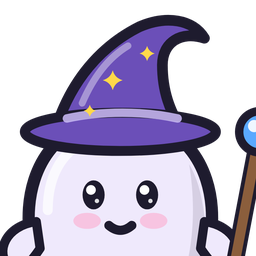
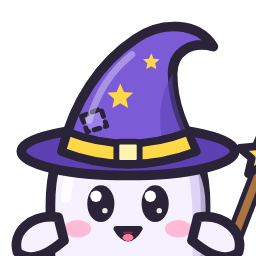
Kistenturm: Profilbilder aus den neuen Figuren neu gerendert
Gleiche Dateinamen und ids (mps_derby_kt_*), 256x256 transparent.

Claude-Session: https://claude.ai/code/session_01SoWN1j3hLtYjzvQRXXWkJB

diff --git a/avatars.js b/avatars.js
@@ -406,7 +406,7 @@
       ['f_b_b_a', 'f_b_b_a_avatar.png', 'Blütenschlange'],
       ['f_b_b_b', 'f_b_b_b_avatar.png', 'Baumsaurier'],
       ['f_b_c',   'f_b_c_avatar.png',   'Baumriese'],
-      // Kistenturm: Teamfiguren (figuren.js DDFiguren.LIST), Kopf aus dem SVG gerendert.
+      // Kistenturm: Teamfiguren (figuren.js DDFiguren.LIST), Kopf aus dem SVG gerendert (neue Figuren seit 10.11.2026).
       // Frei für angemeldete Mitglieder des Sieger-Teams (Migration 0255).
       ['kt_astro',   'kt_astro_avatar.png',   'Astro-Hase'],
       ['kt_lama',    'kt_lama_avatar.png',    'Bananalama'],

diff --git a/MPSkills/tools/DefinitionsDerby/CLAUDE.md b/MPSkills/tools/DefinitionsDerby/CLAUDE.md
@@ -71,7 +71,7 @@ Erste Lernform **„Zusammen im Netz“** (`storm`, `GAMES` mit `net: true`, nur
 - **Klasse holen**: Öffnet die Lehrkraft Kistenturm, schreibt sie `skill_room_state.data.storm = {live: true, t}` und teilt die Lernform (`games` += `storm`); jedes Tablet zeigt oben den Knopf **„Kistenturm! Mitmachen“** (`stBanner`, `.dd-stbanner`), solange sie drin ist (verlässt sie es, `live: false`).
 - **Server** (Tabellen `dd_storm_boards/teams/players/events`, alles am Raum mit on delete cascade): Lehrkraft `dd_storm_room_get/setup/start/stop/reset(p_code, …)`, Tablet `dd_storm_view(p_token, p_since)` und `dd_storm_answer(p_token, p_ok, p_since)` — jede Antwort liefert die ganze Ansicht zurück. Phasen `lobby → countdown (4 s) → running → ended`, lazy weitergeschaltet (`dd_storm_advance`, kein Cron). **Ob eine Antwort stimmt, prüft das Tablet** (insel.js, nachsichtig); der Server zählt höchstens eine richtige je 1,2 s und Gerät (`too_fast`). **Fair bei ungleichen Teams**: eine Antwort bringt `größtes Team / eigenes Team` Anteile (`progress`), Höhe = ganzer Teil. Für Animationen eine laufende Nummer `seq` und kurze Ereignisliste (`box` mit Name und Höhe, `start`, `win`, `time`, `stop`, `reset`; die letzten 200 bleiben); Geräte fragen mit `p_since` nur Neues. In der Lobby kennt das Tablet über `me.id` sein Vorschau-Team.
 - **Aufgaben**: dieselben fünf wie auf der Insel (`DDInsel.makeTask`), die Stufe kommt aus der **Höhe des eigenen Turms** (`stLevel` = ⌊Höhe/Ziel · 5⌋: Begriff wählen · Definition wählen · Bausteine · Begriff tippen · Lückentext) — wer hinten liegt, hat leichtere Aufgaben. Reihenfolge `DDInsel.roundCards`, Falsches kommt per `requeue` wieder. Richtig → „Eine Kiste für Team X“, nach 1 s die nächste; falsch → Lösung, „Weiter“ erst nach 1,6 s (`ST_LOCK_MS`, gegen Raten). **Schreibt keinen Lernstand** (wie Memory/Duell). Das Aufgabenblatt ist dasselbe wie auf der Insel (`paintTask` & Co. fragen `curTask()`; das Ergebnis geht über `taskResult` an `stResult` bzw. `islResult`), hier im Fluss statt als Fenster (`.dd-task--inline`, Kopf `stTaskHead`).
-- **Die sechs Figuren** (`figuren.js` + `figuren.css`; **neu gezeichnet am 10.11.2026**, Sönke: „die Opus-Figuren sind noch nicht richtig schön, Bewegungen nicht toll, kein Charakter“ → Entwurf mit Gegenüberstellung, dann eingebaut). Sie stehen komplett in `figuren.js` (Kasten 0…200, Boden y = 184, Umriss fest `#2b2438`, hell und dunkel gleich); der Baukasten von Knowledge Stack (`KSCreatures`, creatures.js/css) wird dafür **nicht mehr geladen** (`ladeFiguren` in `tool.js` holt nur figuren.css/js). Team = Nummer in `DDFiguren.LIST`, **nicht umsortieren** (auch die Profilbilder `mps_derby_kt_<key>` hängen daran). Schnittstelle unverändert: `DDFiguren.svg(team, action, px)` mit `idle` · `lift` · `cheer` · `sad` (`wave` und alles Unbekannte = idle), `LIST[{key, soft, name, col, say}]`, `count`. Zustand = Klasse am `<svg>` (`kf kf--<key> is-<zustand>`), Teile mit `data-s="idle lift …"` sind nur in diesen Zuständen sichtbar; Bewegungen je Figur und Zustand in `figuren.css` (`@keyframes`, Heben 0,9 s einmal wie bisher, damit `stLift` mit seinen 920 ms passt; „Bewegung reduzieren“ schaltet alles ab). `svg.kf { fill:none; stroke:none }` in `figuren.css`, weil `.dd svg` (tool.css) sonst Strich auf alles legt. Charaktere: 0 **Astro-Hase** (Träumer: schwebt mit Düsenrucksack, winkt ab und zu; Heben = Düsenstoß, Jubeln = Salto, Traurig = gelandet, Ohren hängen) · 1 **Bananalama** (Diva: halb geschlossene Augen, kaut, Bananenschale als Kragen; Heben = Hals wird lang, Jubeln = Galopp-Hüpfer, Traurig = Kopf hängt) · 2 **Lauch-Samurai** (der Ernste: Brauen, Augen wandern, Hand am Schwert; Heben = Schwert ziehen + Schnitt, Jubeln = Schwert zum Himmel, Traurig = Verbeugung, Blätter welken) · 3 **GameBoy** (Zocker: Pixel-Gesicht, wippt im Takt, drückt eigene Knöpfe; Heben = Sprung mit Münze, Jubeln = „1UP“, Traurig = „GAME OVER“) · 4 **Popcorn** (Überdrehte: Körner springen heraus; Heben = zusammenstauchen und poppen, Jubeln = Brille hoch + Fontäne, Traurig = Brille rutscht) · 5 **Magic Ghost** (schusseliger Zauberlehrling: Hut rutscht über die Augen; Heben = Stab-Schlenker mit Funken, Jubeln = Drehung, Hut fliegt, Traurig = Hut über den Augen). Die älteren Fassungen (Baukasten, Sönkes Vorlagebilder) stehen in der Git-Historie (vor 10.11.2026), ebenso `showroom-figuren-vergleich.html`. Ansehen: `showroom-kistensturm.html` (Knöpfe je Figur). **Offen:** die Profilbilder `kt_<key>_avatar.png` (Kopf aus dem alten SVG) zeigen noch die alten Figuren.
+- **Die sechs Figuren** (`figuren.js` + `figuren.css`; **neu gezeichnet am 10.11.2026**, Sönke: „die Opus-Figuren sind noch nicht richtig schön, Bewegungen nicht toll, kein Charakter“ → Entwurf mit Gegenüberstellung, dann eingebaut). Sie stehen komplett in `figuren.js` (Kasten 0…200, Boden y = 184, Umriss fest `#2b2438`, hell und dunkel gleich); der Baukasten von Knowledge Stack (`KSCreatures`, creatures.js/css) wird dafür **nicht mehr geladen** (`ladeFiguren` in `tool.js` holt nur figuren.css/js). Team = Nummer in `DDFiguren.LIST`, **nicht umsortieren** (auch die Profilbilder `mps_derby_kt_<key>` hängen daran). Schnittstelle unverändert: `DDFiguren.svg(team, action, px)` mit `idle` · `lift` · `cheer` · `sad` (`wave` und alles Unbekannte = idle), `LIST[{key, soft, name, col, say}]`, `count`. Zustand = Klasse am `<svg>` (`kf kf--<key> is-<zustand>`), Teile mit `data-s="idle lift …"` sind nur in diesen Zuständen sichtbar; Bewegungen je Figur und Zustand in `figuren.css` (`@keyframes`, Heben 0,9 s einmal wie bisher, damit `stLift` mit seinen 920 ms passt; „Bewegung reduzieren“ schaltet alles ab). `svg.kf { fill:none; stroke:none }` in `figuren.css`, weil `.dd svg` (tool.css) sonst Strich auf alles legt. Charaktere: 0 **Astro-Hase** (Träumer: schwebt mit Düsenrucksack, winkt ab und zu; Heben = Düsenstoß, Jubeln = Salto, Traurig = gelandet, Ohren hängen) · 1 **Bananalama** (Diva: halb geschlossene Augen, kaut, Bananenschale als Kragen; Heben = Hals wird lang, Jubeln = Galopp-Hüpfer, Traurig = Kopf hängt) · 2 **Lauch-Samurai** (der Ernste: Brauen, Augen wandern, Hand am Schwert; Heben = Schwert ziehen + Schnitt, Jubeln = Schwert zum Himmel, Traurig = Verbeugung, Blätter welken) · 3 **GameBoy** (Zocker: Pixel-Gesicht, wippt im Takt, drückt eigene Knöpfe; Heben = Sprung mit Münze, Jubeln = „1UP“, Traurig = „GAME OVER“) · 4 **Popcorn** (Überdrehte: Körner springen heraus; Heben = zusammenstauchen und poppen, Jubeln = Brille hoch + Fontäne, Traurig = Brille rutscht) · 5 **Magic Ghost** (schusseliger Zauberlehrling: Hut rutscht über die Augen; Heben = Stab-Schlenker mit Funken, Jubeln = Drehung, Hut fliegt, Traurig = Hut über den Augen). Die älteren Fassungen (Baukasten, Sönkes Vorlagebilder) stehen in der Git-Historie (vor 10.11.2026), ebenso `showroom-figuren-vergleich.html`. Ansehen: `showroom-kistensturm.html` (Knöpfe je Figur). Die Profilbilder `kt_<key>_avatar.png` (256 × 256, transparent, Kopf der neuen Figuren aus dem SVG gerendert, Playwright, Animationen aus) sind am 10.11.2026 mit neu gemacht worden; gleiche ids.
 - **Beamer** (`stSceneBeam`): Holzleiste unten mit Teamschild, je Team ein Turm aus **Pappkartons mit Klebeband** (`.dd-st__box`; das breite Klebeband in der Mitte und beide Seitenkanten in der Farbe des Teams, dem die Kiste gehört — Sönke 30.10.2026: „eindeutiger in der Farbe“), die Figur steht links daneben; neue Kiste = Figur hebt (`stLift`) und die Kiste rutscht unten hinein (`.is-new`, `column-reverse`, erstes Kind = unten), Kiste für Kiste je Team nachgezogen (`stSync`/`stStep`, `ST_STEP_MS`; weit zurück → springen bis auf 3). Kistenhöhe so, dass das Ziel genau unter das **Absperrband** passt (`stLayout`, `--bh`; unter 12 px ohne Klebeband-Details `is-thin`). Höhe als Stempel über dem Turm, darüber „Name +1“-Zettel. Unter dem Teamschild „x Player“ und die Namen des Teams (`stWho`/`stPaintWho`, zieht Spätzugänge nach; Sönke 30.10.2026, vorher „x Kinder“). **Item-Linien** als orange gestrichelte 3-px-Linie mit leichtem Schein, Fragezeichen etwas größer (Sönke 30.10.2026: erst „nicht gut zu sehen“, das kräftige Band dann „etwas too much“ → Mittelding); am Tablet die Linien im Balken etwas kräftiger. **Dunkelmodus**: `.dd svg` vererbt `stroke: currentColor`; damit die Figuren-Augen keinen hellen Rand bekommen, setzt `.dd .creature-svg { color: var(--ink) }` die dunkle Tinte aus creatures.css. Countdown „Bereit? 3-2-1 Los!“ als großer Stempel, Uhr oben (rot in den letzten 30 s), Vollbild-Knopf. Ende: Siegerkarte (Figur jubelt, Platzierung, „Nochmal“), am Turm jubelt der Sieger, die anderen sind traurig.
 - **Tablet** (`stSceneDev`): Papierkarte mit allen Teams als Balken (eigenes Team hervorgehoben, „ihr“, große Figur, die mithebt; „+1 Name“ nur fürs eigene Team), darunter die Stufe der Aufgaben, dann das Aufgabenblatt. Lobby: „Du bist in Team X“ mit winkender Figur und den Namen; Ende: eigene Figur jubelt/traurig, Platzierung, „Du hast n Kisten beigetragen“.
 - **Bildschirmfoto** `img/spiel-kistensturm.jpg`, Mini-Bild `MINI.storm` (vier Türme, Absperrband).
